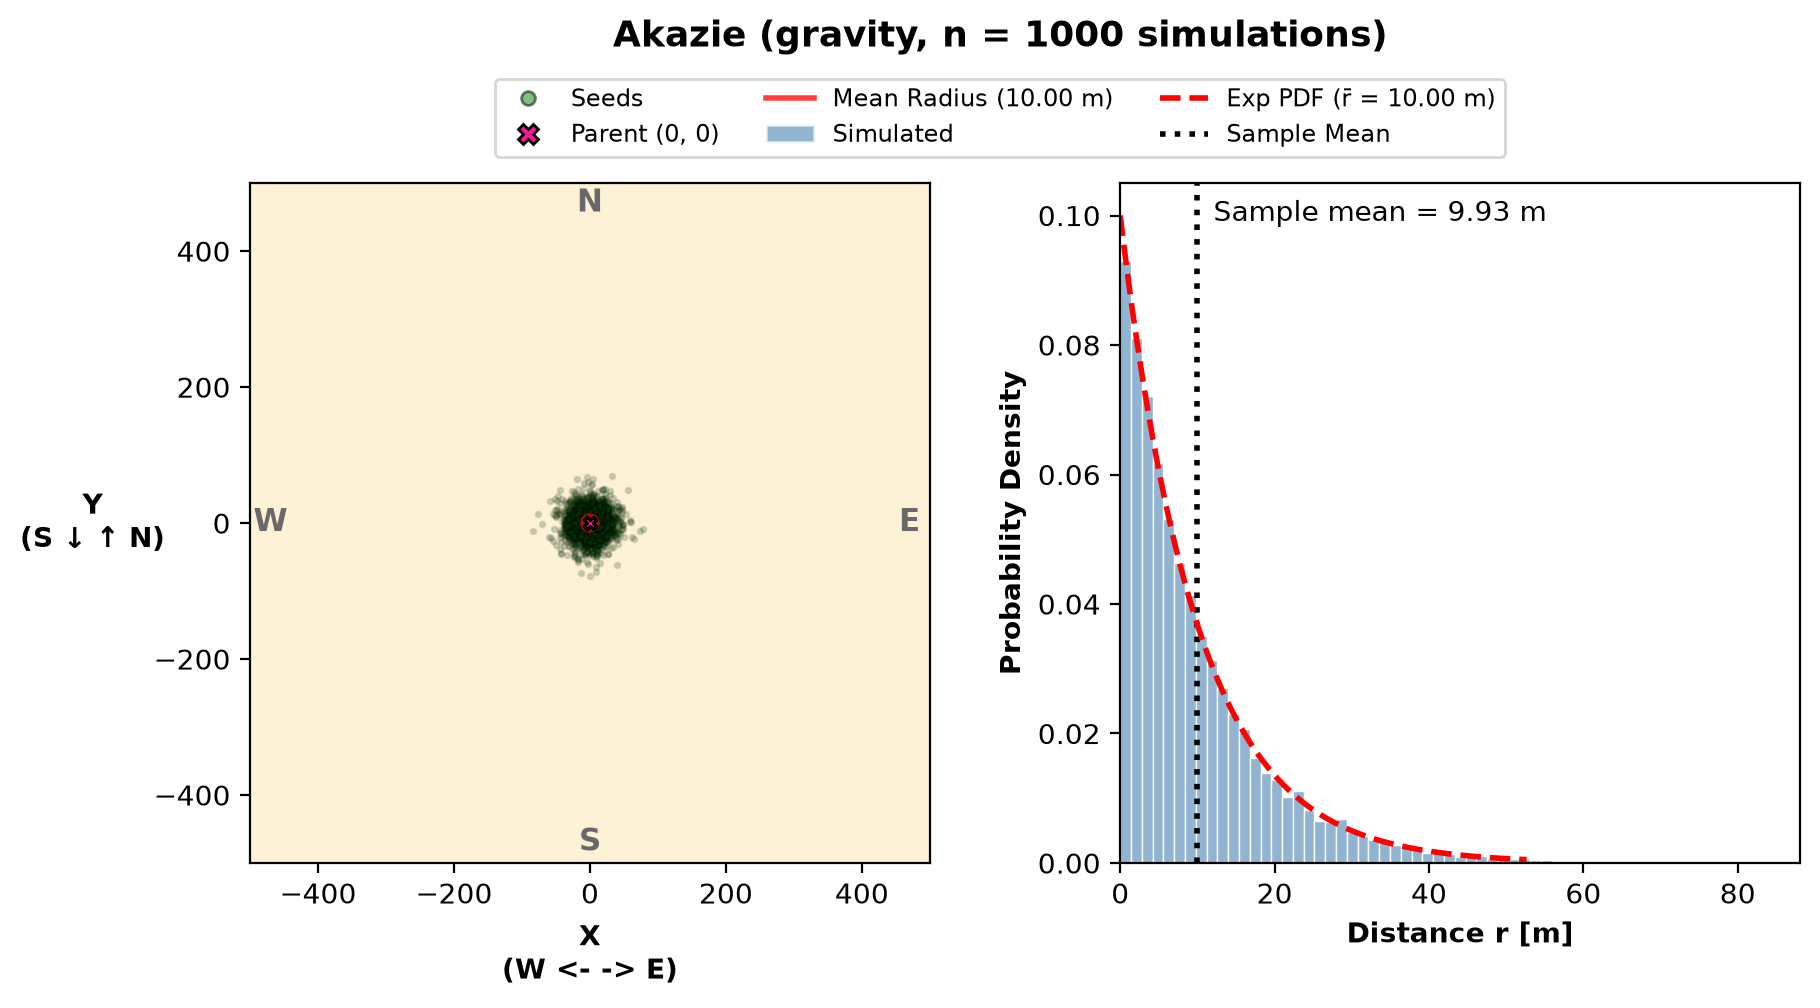
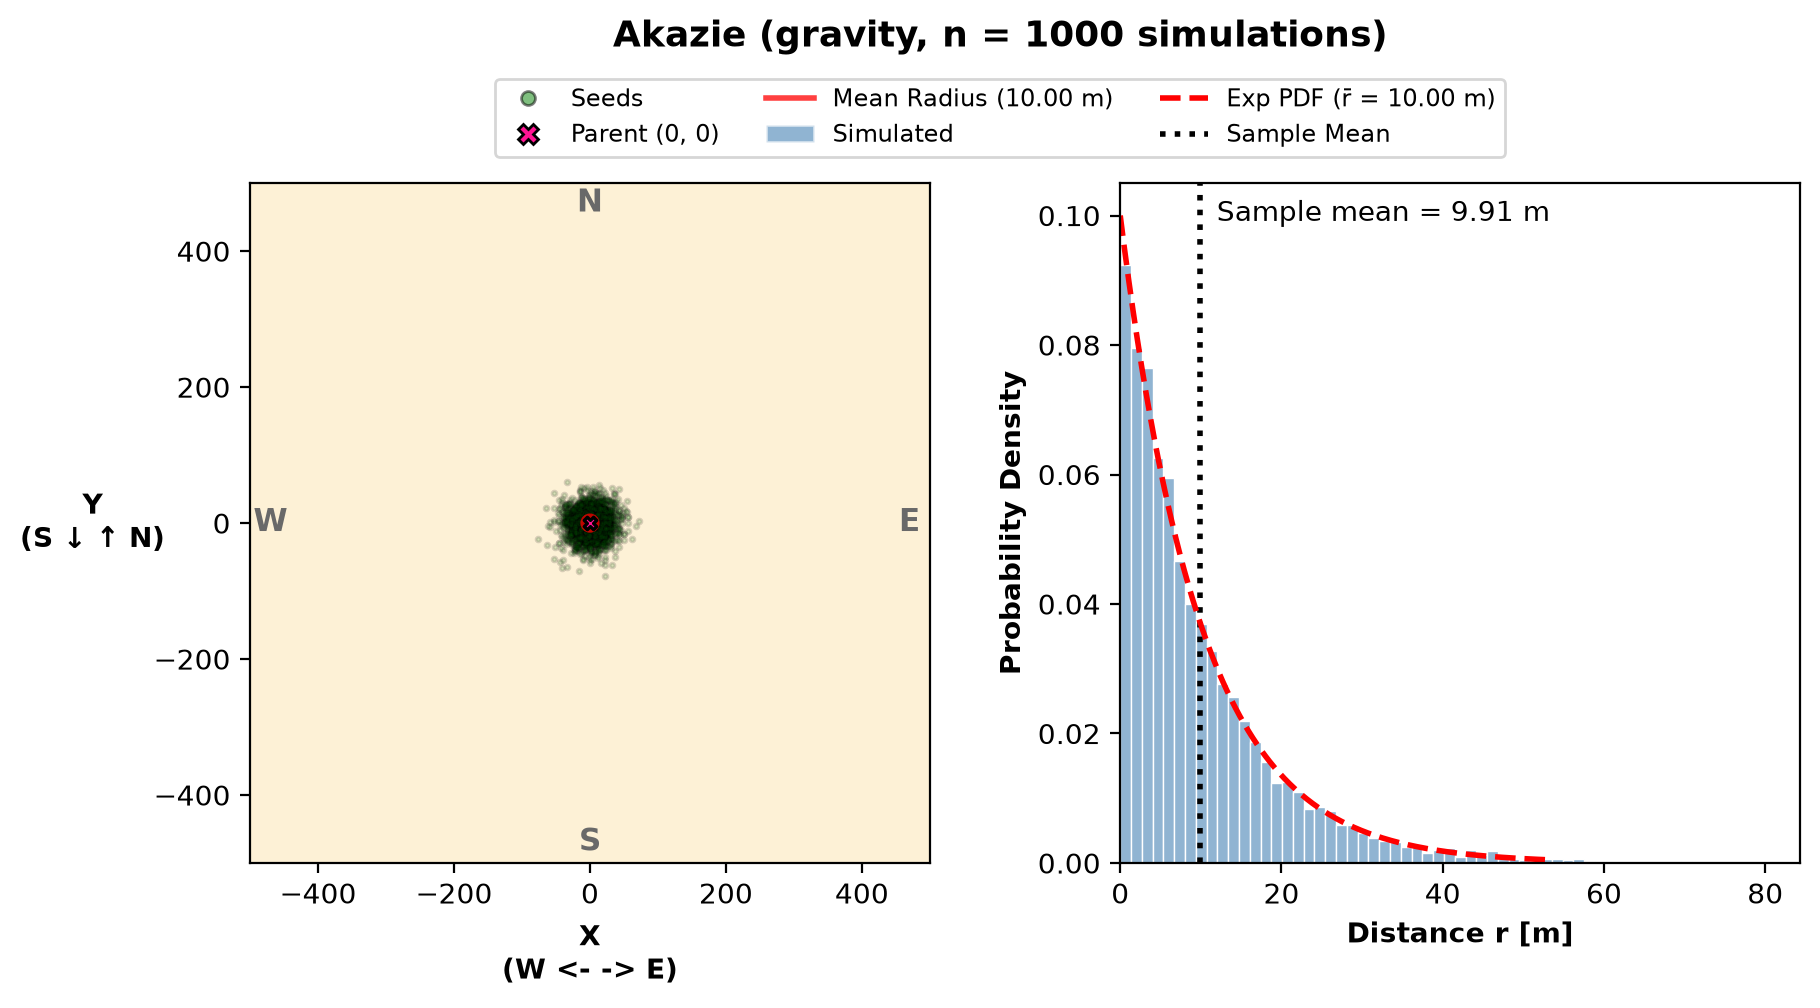
task 1: generate artifacts for report

diff --git a/docs/overleaf/tables/seed_dispersal_montecarlo_results.tex b/docs/overleaf/tables/seed_dispersal_montecarlo_results.tex
@@ -2,16 +2,16 @@
 \toprule
 species & dispersal & total_seeds & r_bar_theory_m & r_bar_sim_m & rel_error_pct & ks_pvalue \\
 \midrule
-Ahorn & wind & 7999 & 36.00 & 36.40 & 1.10 & 0.48 \\
-Akazie & gravity & 11981 & 10.00 & 9.93 & 0.72 & 0.65 \\
-Buche & animal & 4705 & 30.00 & 30.02 & 0.08 & 0.49 \\
-Esche & wind & 9645 & 28.00 & 28.27 & 0.96 & 0.13 \\
-Kastanie & animal & 3163 & 10.00 & 10.16 & 1.62 & 0.86 \\
-Kiefer & wind & 8069 & 44.00 & 44.10 & 0.23 & 1.00 \\
-Kirsche & animal & 9723 & 60.00 & 59.70 & 0.49 & 0.36 \\
-Linde & wind & 6515 & 28.00 & 27.61 & 1.38 & 0.17 \\
-Pappel & wind & 8029 & 120.00 & 120.92 & 0.76 & 0.13 \\
-Platane & wind & 6251 & 72.00 & 72.61 & 0.85 & 0.59 \\
-Zürgelbaum & animal & 6490 & 60.00 & 59.17 & 1.39 & 0.41 \\
+Ahorn & wind & 8066 & 36.00 & 35.69 & 0.86 & 0.34 \\
+Akazie & gravity & 12005 & 10.00 & 9.91 & 0.90 & 0.30 \\
+Buche & animal & 4851 & 30.00 & 31.15 & 3.82 & 0.12 \\
+Esche & wind & 9538 & 28.00 & 28.18 & 0.65 & 0.90 \\
+Kastanie & animal & 3095 & 10.00 & 9.44 & 5.61 & 0.11 \\
+Kiefer & wind & 7989 & 44.00 & 43.84 & 0.36 & 0.60 \\
+Kirsche & animal & 9656 & 60.00 & 59.87 & 0.22 & 0.39 \\
+Linde & wind & 6461 & 28.00 & 28.01 & 0.04 & 0.45 \\
+Pappel & wind & 8154 & 120.00 & 121.76 & 1.46 & 0.46 \\
+Platane & wind & 6369 & 72.00 & 73.27 & 1.76 & 0.07 \\
+Zürgelbaum & animal & 6455 & 60.00 & 59.67 & 0.55 & 0.75 \\
 \bottomrule
 \end{tabular}
